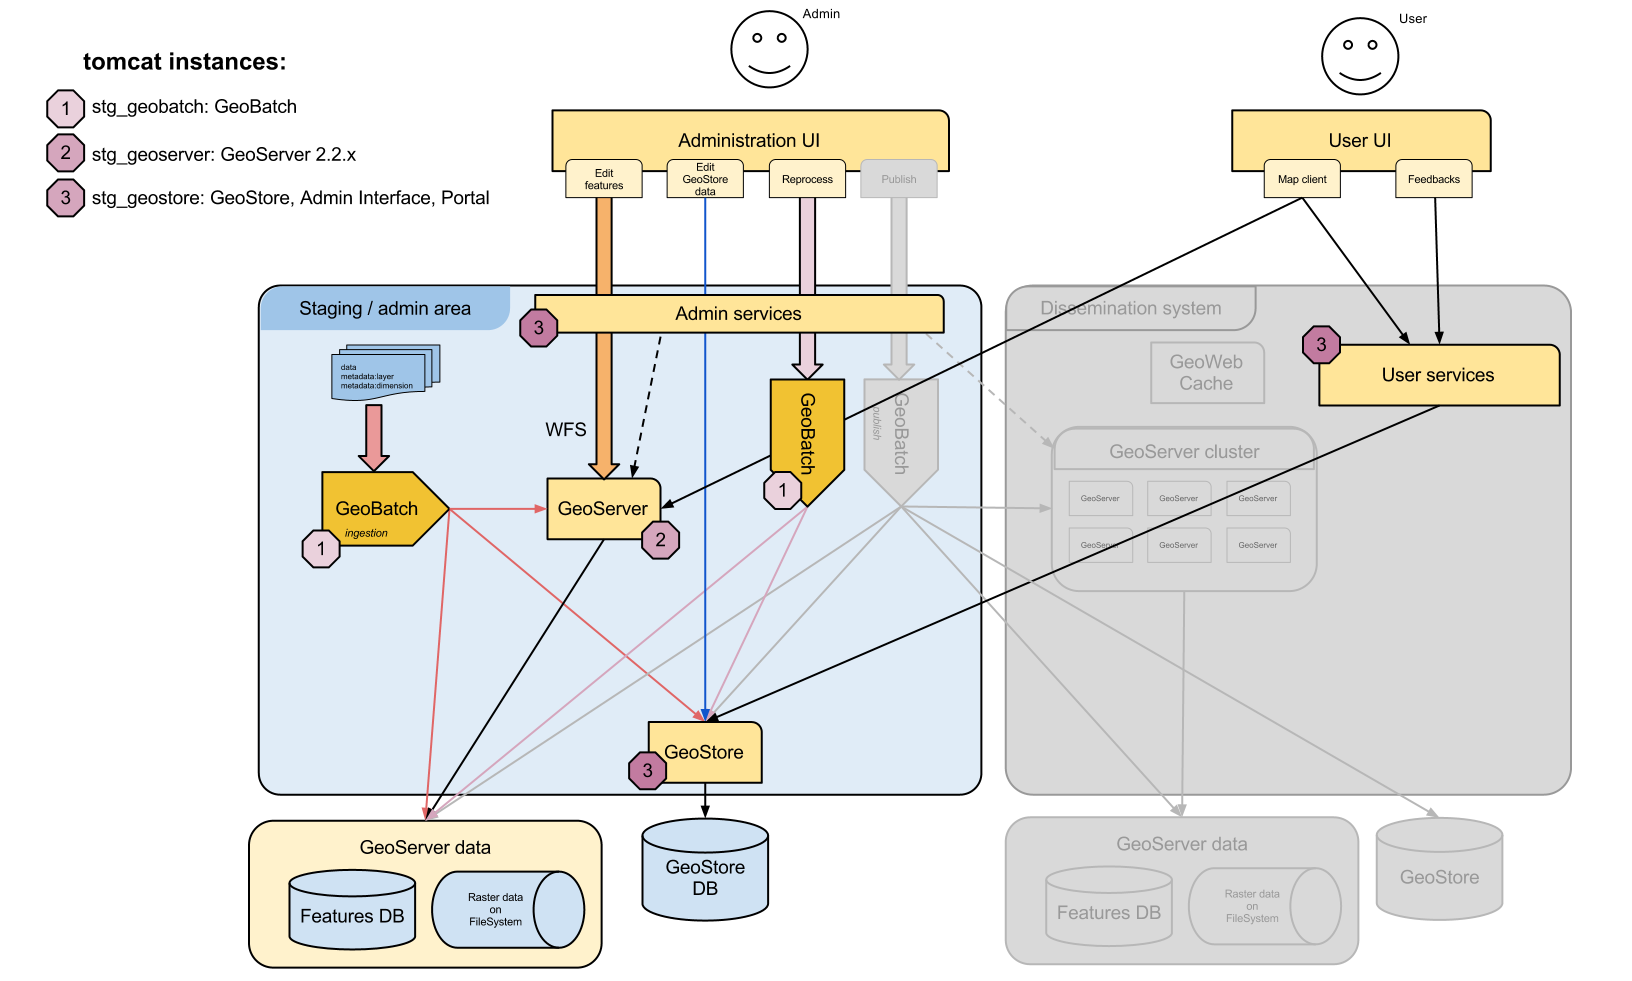
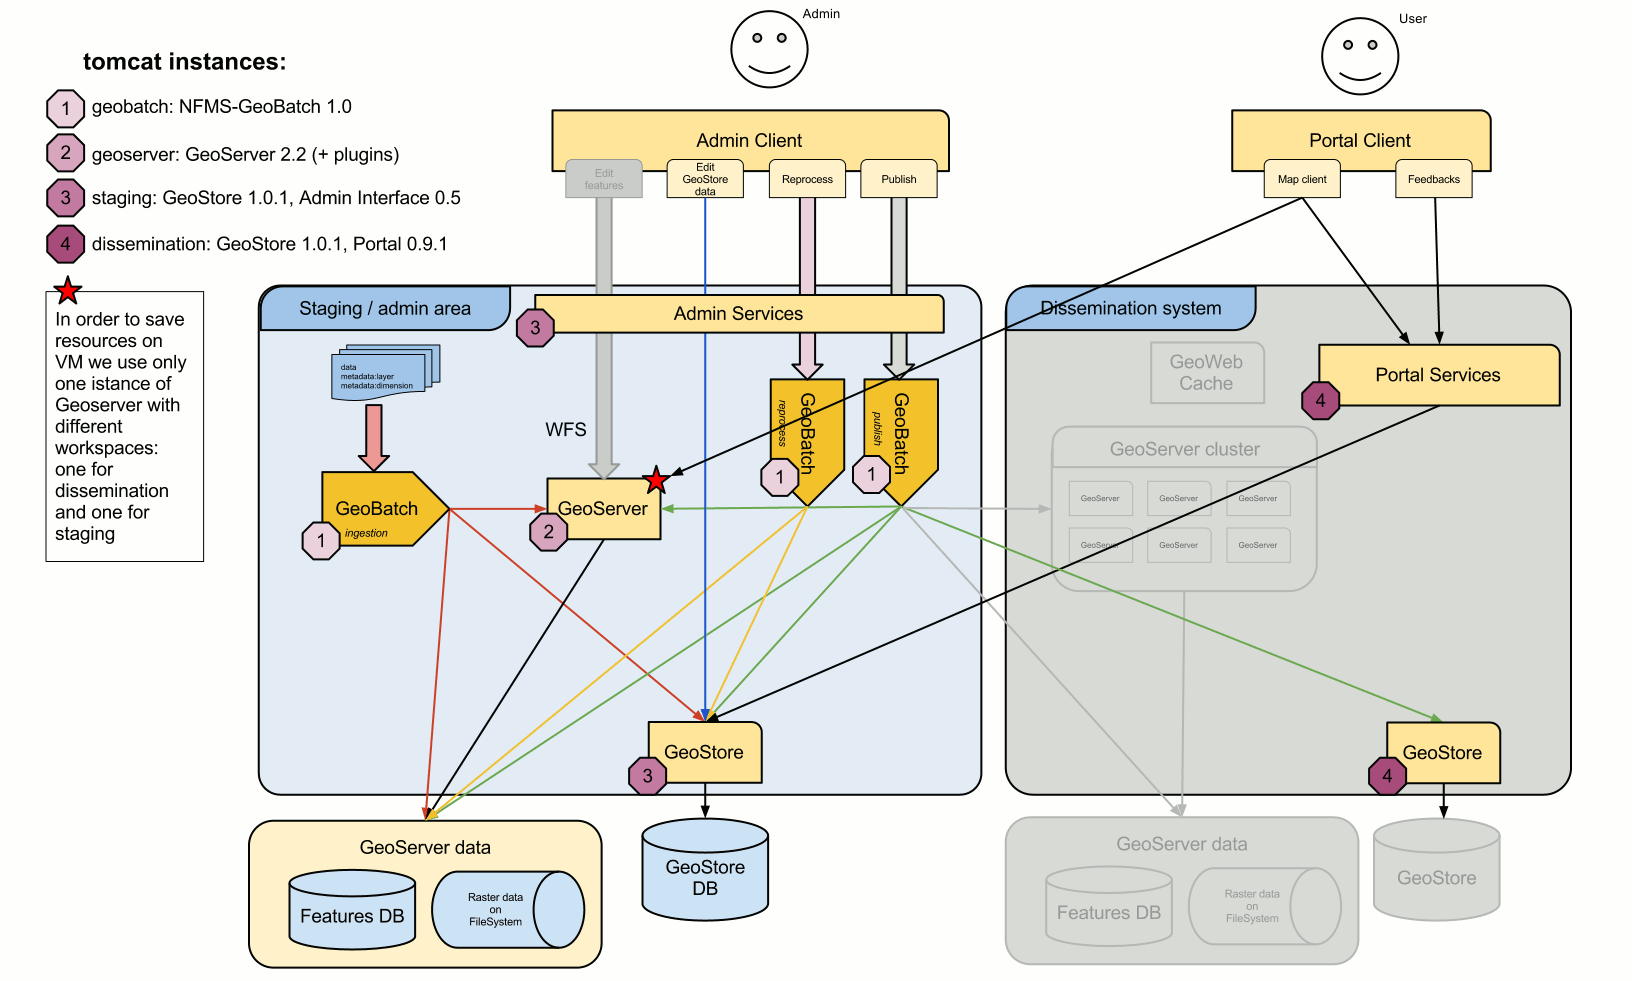
Updated Simplified Architecture Diagram. Closes #12

diff --git a/livedvd/simplified_architecture.rst b/livedvd/simplified_architecture.rst
@@ -1,14 +1,19 @@
-Simplified Architecture in LiveDVD
-==================================
+Training Machine Simplified Architecture
+========================================
 
-The UNREDD NMFS platform provides both a *staging* and a *dissemination* areas, so the data can be imported and reviewed previous to its definite publication in a separate environment.
+The UNREDD NMFS platform provides both a *staging* and a *dissemination* areas,
+so the data can be reviewed and prior to its definite publication.
 
 .. figure:: img/simplified_architecture.png
    :width: 1200
 
    LiveDVD simplified architecture
       
-The components not present in the LiveDVD have been grayed out in the figure, where the dissemination block has been removed. This simplified version contains all the building blocks needed to fully understand the platform, while reduces the complexity needed only in real production environments.
+components not present in the Training machine have been grayed out in the figure.
+Mainly, the dissemination block has been removed. This simplified version
+contains all the building blocks needed to fully understand the platform, while
+reducing the complexities needed only in real production environments.
 
-In this case, the publishing operation, which copies the data from the *staging* to the *dissemination* area, has been removed, and the User Portal is directly connected to the staging GeoServer and GeoStore instances.
-
+In this case, both staging and dissemination areas share the same geoserver instance,
+so the publishing flow, is copying the data from the *staging* workspace to tne
+*dissemination* one in the same machine.

diff --git a/livedvd/index.rst b/livedvd/index.rst
@@ -1,17 +1,17 @@
 .. module:: unredd.livedvd
 
-Running and installing the training LiveDVD
+Running and installing the Training Machine
 ===========================================
 
-This chapter walks through the LiveDVD and UNREDD NFMS installation and configuration process. The reader will learn how to run and install the system.
+This chapter walks through the LiveDVD setup used in Workshops, its installation and
+configuration. The reader will learn how to run and install the Training environment.
 
 In this module you will see:
 
 .. toctree::
    :maxdepth: 1 
 
-   Running the LiveDVD <live_dvd_running>
-   Installing the LiveDVD on the system <live_dvd_install>
-   LiveDVD Simplified System Architecture <simplified_architecture>
-   Starting and stopping the applications <run_tomcat>
-
+   live_dvd_running
+   live_dvd_install
+   simplified_architecture
+   run_tomcat

diff --git a/livedvd/live_dvd_running.rst b/livedvd/live_dvd_running.rst
@@ -3,8 +3,8 @@
 .. _geoserver.live_dvd_running:
 
 
-Running the LiveDVD.
---------------------
+Running the LiveDVD
+-------------------
 
 The workshop data and material is provided through the LiveDVD shipped with this documentation. The LiveDVD runs an instance of XUbuntu 9.10 customized for the workshop, containing the following software:
 
